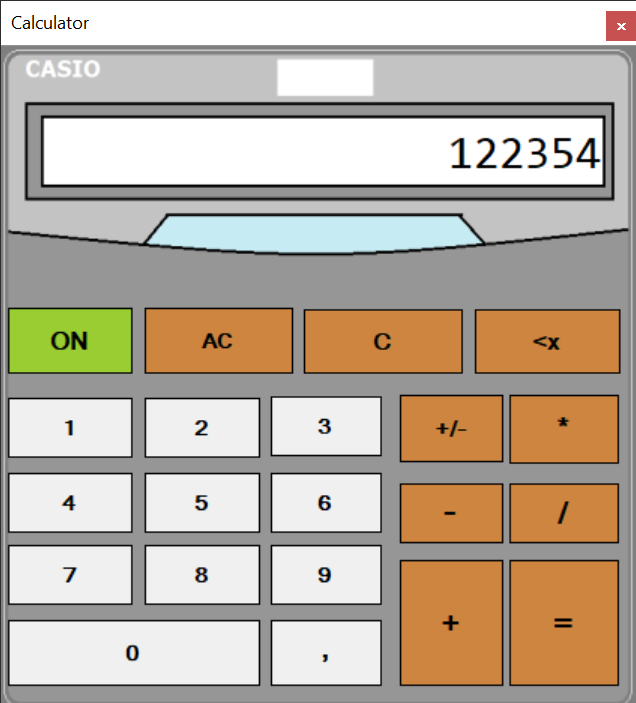
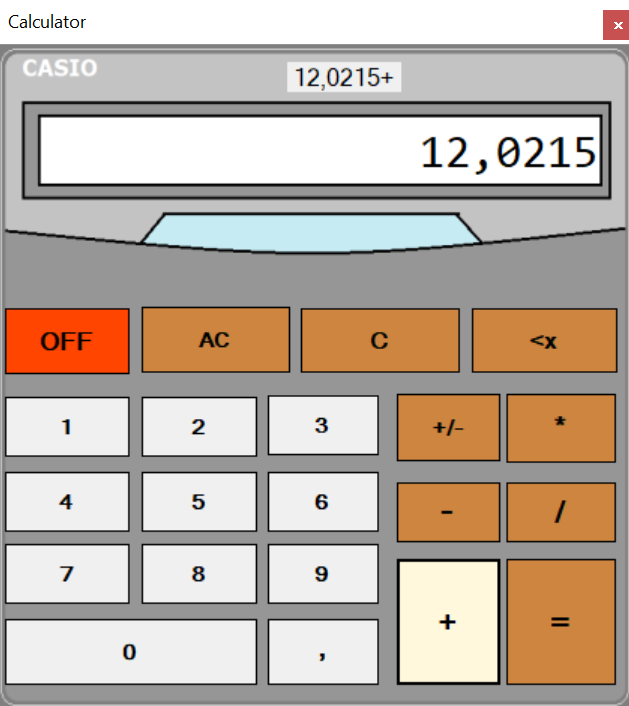
last version

Changed region(s): [[0.0, 0.0, 1.0, 1.0], [0.876, 0.8663, 0.9062, 0.8962]]

diff --git a/FullFanctionCalculator/Form1.cs b/FullFanctionCalculator/Form1.cs
@@ -23,18 +23,16 @@ namespace FullFanctionCalculator
         double number;
         string operationStatus;        
         double result;
-        int counter=0;
         bool deleteTextbox = true;
         bool doOperate = false;
         bool isFirst = true;
-
         #endregion
 
         #region method
         //It adds number to textbox. 
         public void addNumberToTextbox()
         {
-            if (isFirst==true || textBox1.Text=="Hata")
+            if (isFirst==true || textBox1.Text=="Error")
             {
                 textBox1.Text = buttonNumber;
                 isFirst = false;
@@ -104,7 +102,6 @@ namespace FullFanctionCalculator
             number = 0;
             operationStatus = "";
             result = 0;
-            counter = 0;
             deleteTextbox = true;
             doOperate = false;
             isFirst = true;
@@ -227,12 +224,6 @@ namespace FullFanctionCalculator
              buttonActiveControl();
         }
 
-        private void ac_Click(object sender, EventArgs e)
-        {
-            textBox1.Clear();
-            textBox1.Text = "0";
-        }
-
         private void sum_Click(object sender, EventArgs e)
         {
             operationStatus = "+";          
@@ -242,14 +233,25 @@ namespace FullFanctionCalculator
             divide.BackColor = Color.Peru;
             if (doOperate == false)
             {
-                number = long.Parse(textBox1.Text);
-                result = number;
-                doOperate = true;
-                isFirst = true;
+                if (textBox1.Text == "Error")
+                {
+                    textBox1.Text = "0";
+                    number = double.Parse(textBox1.Text);
+                    result = number;
+                    doOperate = true;
+                    isFirst = true;
+                }
+                else
+                {
+                    number = double.Parse(textBox1.Text);
+                    result = number;
+                    doOperate = true;
+                    isFirst = true;
+                }
             } 
             else if (doOperate==true)
             {
-                number = long.Parse(textBox1.Text);
+                number = double.Parse(textBox1.Text);
                 result = result + number;
                 isFirst = true;
             }
@@ -267,14 +269,26 @@ namespace FullFanctionCalculator
 
             if (doOperate == false)
             {
-                number = long.Parse(textBox1.Text);
-                result = number;
-                doOperate = true;
-                isFirst = true;
+                if (textBox1.Text=="Error")
+                {
+                    textBox1.Text = "0";
+                    number = double.Parse(textBox1.Text);
+                    result = number;
+                    doOperate = true;
+                    isFirst = true;
+                }
+                else
+                {
+                    number = double.Parse(textBox1.Text);
+                    result = number;
+                    doOperate = true;
+                    isFirst = true;
+                }
+                
             }
             else if (doOperate == true)
             {
-                number = long.Parse(textBox1.Text);
+                number = double.Parse(textBox1.Text);
                 result = result - number;
                 isFirst = true;
             }
@@ -291,14 +305,25 @@ namespace FullFanctionCalculator
             divide.BackColor = Color.Peru;
             if (doOperate == false)
             {
-                number = long.Parse(textBox1.Text);
-                result = number;
-                doOperate = true;
-                isFirst = true;
+                if (textBox1.Text == "Error")
+                {
+                    textBox1.Text = "0";
+                    number = double.Parse(textBox1.Text);
+                    result = number;
+                    doOperate = true;
+                    isFirst = true;
+                }
+                else
+                {
+                    number = double.Parse(textBox1.Text);
+                    result = number;
+                    doOperate = true;
+                    isFirst = true;
+                }
             }
             else if (doOperate == true)
             {
-                number = long.Parse(textBox1.Text);
+                number = double.Parse(textBox1.Text);
                 result = result * number;
                 isFirst = true;
             }
@@ -315,22 +340,32 @@ namespace FullFanctionCalculator
             multiply.BackColor = Color.Peru;
             if (doOperate == false)
             {
-                number = long.Parse(textBox1.Text);
-                result = number;
-                doOperate = true;
-                isFirst = true;
-                labelData.Text = Convert.ToString(result) + "/";
-                textBox1.Text = Convert.ToString(result);
+                if (textBox1.Text == "Error")
+                {
+                    textBox1.Text = "0";
+                    number = double.Parse(textBox1.Text);
+                    result = number;
+                    doOperate = true;
+                    isFirst = true;
+                }
+                else
+                {
+                    number = double.Parse(textBox1.Text);
+                    result = number;
+                    doOperate = true;
+                    isFirst = true;
+                }
             }
             else if (doOperate == true)
             {
-                number = long.Parse(textBox1.Text);
+                number = double.Parse(textBox1.Text);
                 if (number==0)
                 {
-                    textBox1.Text = "Hata";
+                    textBox1.Text = "Error";
                     labelData.Text = "";
                     divide.BackColor = Color.Peru;
-                    isFirst = true;
+                    doOperate = false;
+                    isFirst = false;
                 }
                 else
                 {
@@ -347,46 +382,50 @@ namespace FullFanctionCalculator
         private void equal_Click(object sender, EventArgs e)
         {
             buttonActiveControl();
-            if (operationStatus=="+")
+            if (operationStatus=="+")//first It checks opretion type.
             {
-                number = long.Parse(textBox1.Text);
+                number = double.Parse(textBox1.Text);
                 result = result + number;
                 textBox1.Text = Convert.ToString(result);
                 labelData.Text= Convert.ToString(result);
                 sum.BackColor = Color.Peru;
                 result = 0;
+                doOperate = false;
                 isFirst = true;
             }
-            if (operationStatus == "-")
+            else if(operationStatus == "-")
             {
-                number = long.Parse(textBox1.Text);
+                number = double.Parse(textBox1.Text);
                 result = result - number;
                 textBox1.Text = Convert.ToString(result);
                 labelData.Text = Convert.ToString(result);
                 minus.BackColor = Color.Peru;
                 result = 0;
+                doOperate = false;
                 isFirst = true;
             }
-            if (operationStatus == "*")
+           else if (operationStatus == "*")
             {
-                number = long.Parse(textBox1.Text);
+                number = double.Parse(textBox1.Text);
                 result = result * number;
                 textBox1.Text = Convert.ToString(result);
                 labelData.Text = Convert.ToString(result);
                 multiply.BackColor = Color.Peru;
-                result = 1;
+                result = 0;
+                doOperate = false;
                 isFirst = true;
             }
-            if ( operationStatus == "/")
+            else if ( operationStatus == "/")//a number/0 cerates error.
             {
-                number = long.Parse(textBox1.Text);
-                if (number==0)
+                number = double.Parse(textBox1.Text);
+                if (number==0)//ıt checks if the number is eaual 0. If it is it gives error message.
                 {
-                    textBox1.Text = "Hata";
+                    textBox1.Text = "Error";
                     labelData.Text = "";
                     divide.BackColor = Color.Peru;
                     result = result * result;
-                    isFirst = false;
+                    doOperate = false;
+                    isFirst = true;
                 }
                 else
                 {
@@ -394,15 +433,36 @@ namespace FullFanctionCalculator
                     textBox1.Text = Convert.ToString(result);
                     labelData.Text = Convert.ToString(result);
                     divide.BackColor = Color.Peru;
-                    result = result * result;
+                    result = 0;
+                    doOperate = false;
                     isFirst = true;
                 }
             }
               
         }
 
-        private void pictureBox1_Click(object sender, EventArgs e)
+        //ıt adds comma to make number decimal number.
+        private void comma_Click(object sender, EventArgs e)
         {
+
+            if (textBox1.Text.Contains(","))
+            {
+                textBox1.Text = textBox1.Text;
+            }
+            else
+            {
+                if (textBox1.Text == "0")
+                {
+                    addCommaToTexbox();
+                }
+                else
+                {
+                    buttonNumber = ",";
+                    addNumberToTextbox();
+                    buttonActiveControl();
+                }
+
+            }
 
         }
 
@@ -419,51 +479,19 @@ namespace FullFanctionCalculator
             continueWorking();
         }
 
-        //ıt adds comma to make number decimal number.
-        private void comma_Click(object sender, EventArgs e)
+        //It resarts.
+        private void ac_Click(object sender, EventArgs e)
         {
-
-            if (textBox1.Text.Contains(","))
-            {
-                textBox1.Text = textBox1.Text;
-            }
-            else
-            {
-                if (textBox1.Text=="0")
-                {
-                    addCommaToTexbox();
-                }
-                else
-                {
-                    if ( true)
-                    {
-                        buttonNumber = ",";
-                        addNumberToTextbox();
-                        buttonActiveControl();
-                    }
-                    else
-                    {
-                        if (deleteTextbox == true)
-                        {
-                            sum.BackColor = Color.Peru;
-                            buttonNumber = ",";
-                            textBox1.Clear();
-                            addNumberToTextbox();
-                            buttonActiveControl();
-                            deleteTextbox = false;
-                        }
-                        else
-                        {
-                            sum.BackColor = Color.Peru;
-                            buttonNumber = ",";
-                            addNumberToTextbox();
-                            buttonActiveControl();
-                        }
-                    }
-                }
-
-            }
-                
+            textBox1.Clear();
+            labelData.Text = "";
+            textBox1.Text = "0";
+            doOperate = false;
+            isFirst = true;
+            result = 0;
+            divide.BackColor = Color.Peru;
+            sum.BackColor = Color.Peru;
+            minus.BackColor = Color.Peru;
+            multiply.BackColor = Color.Peru;
         }
 
         //It clears all textbox.
@@ -512,6 +540,10 @@ namespace FullFanctionCalculator
                 else
                 {
                     textBox1.Text = "-" + textBox1.Text;//If it does not has "-" it adds one and makes the number negative.
+                    divide.BackColor = Color.Peru;
+                    sum.BackColor = Color.Peru;
+                    minus.BackColor = Color.Peru;
+                    multiply.BackColor = Color.Peru;
                 }
                 
             }

diff --git a/FullFanctionCalculator/Form1.Designer.cs b/FullFanctionCalculator/Form1.Designer.cs
@@ -293,7 +293,6 @@ namespace FullFanctionCalculator
             this.pictureBox1.SizeMode = System.Windows.Forms.PictureBoxSizeMode.StretchImage;
             this.pictureBox1.TabIndex = 19;
             this.pictureBox1.TabStop = false;
-            this.pictureBox1.Click += new System.EventHandler(this.pictureBox1_Click);
             // 
             // Off
             // 
